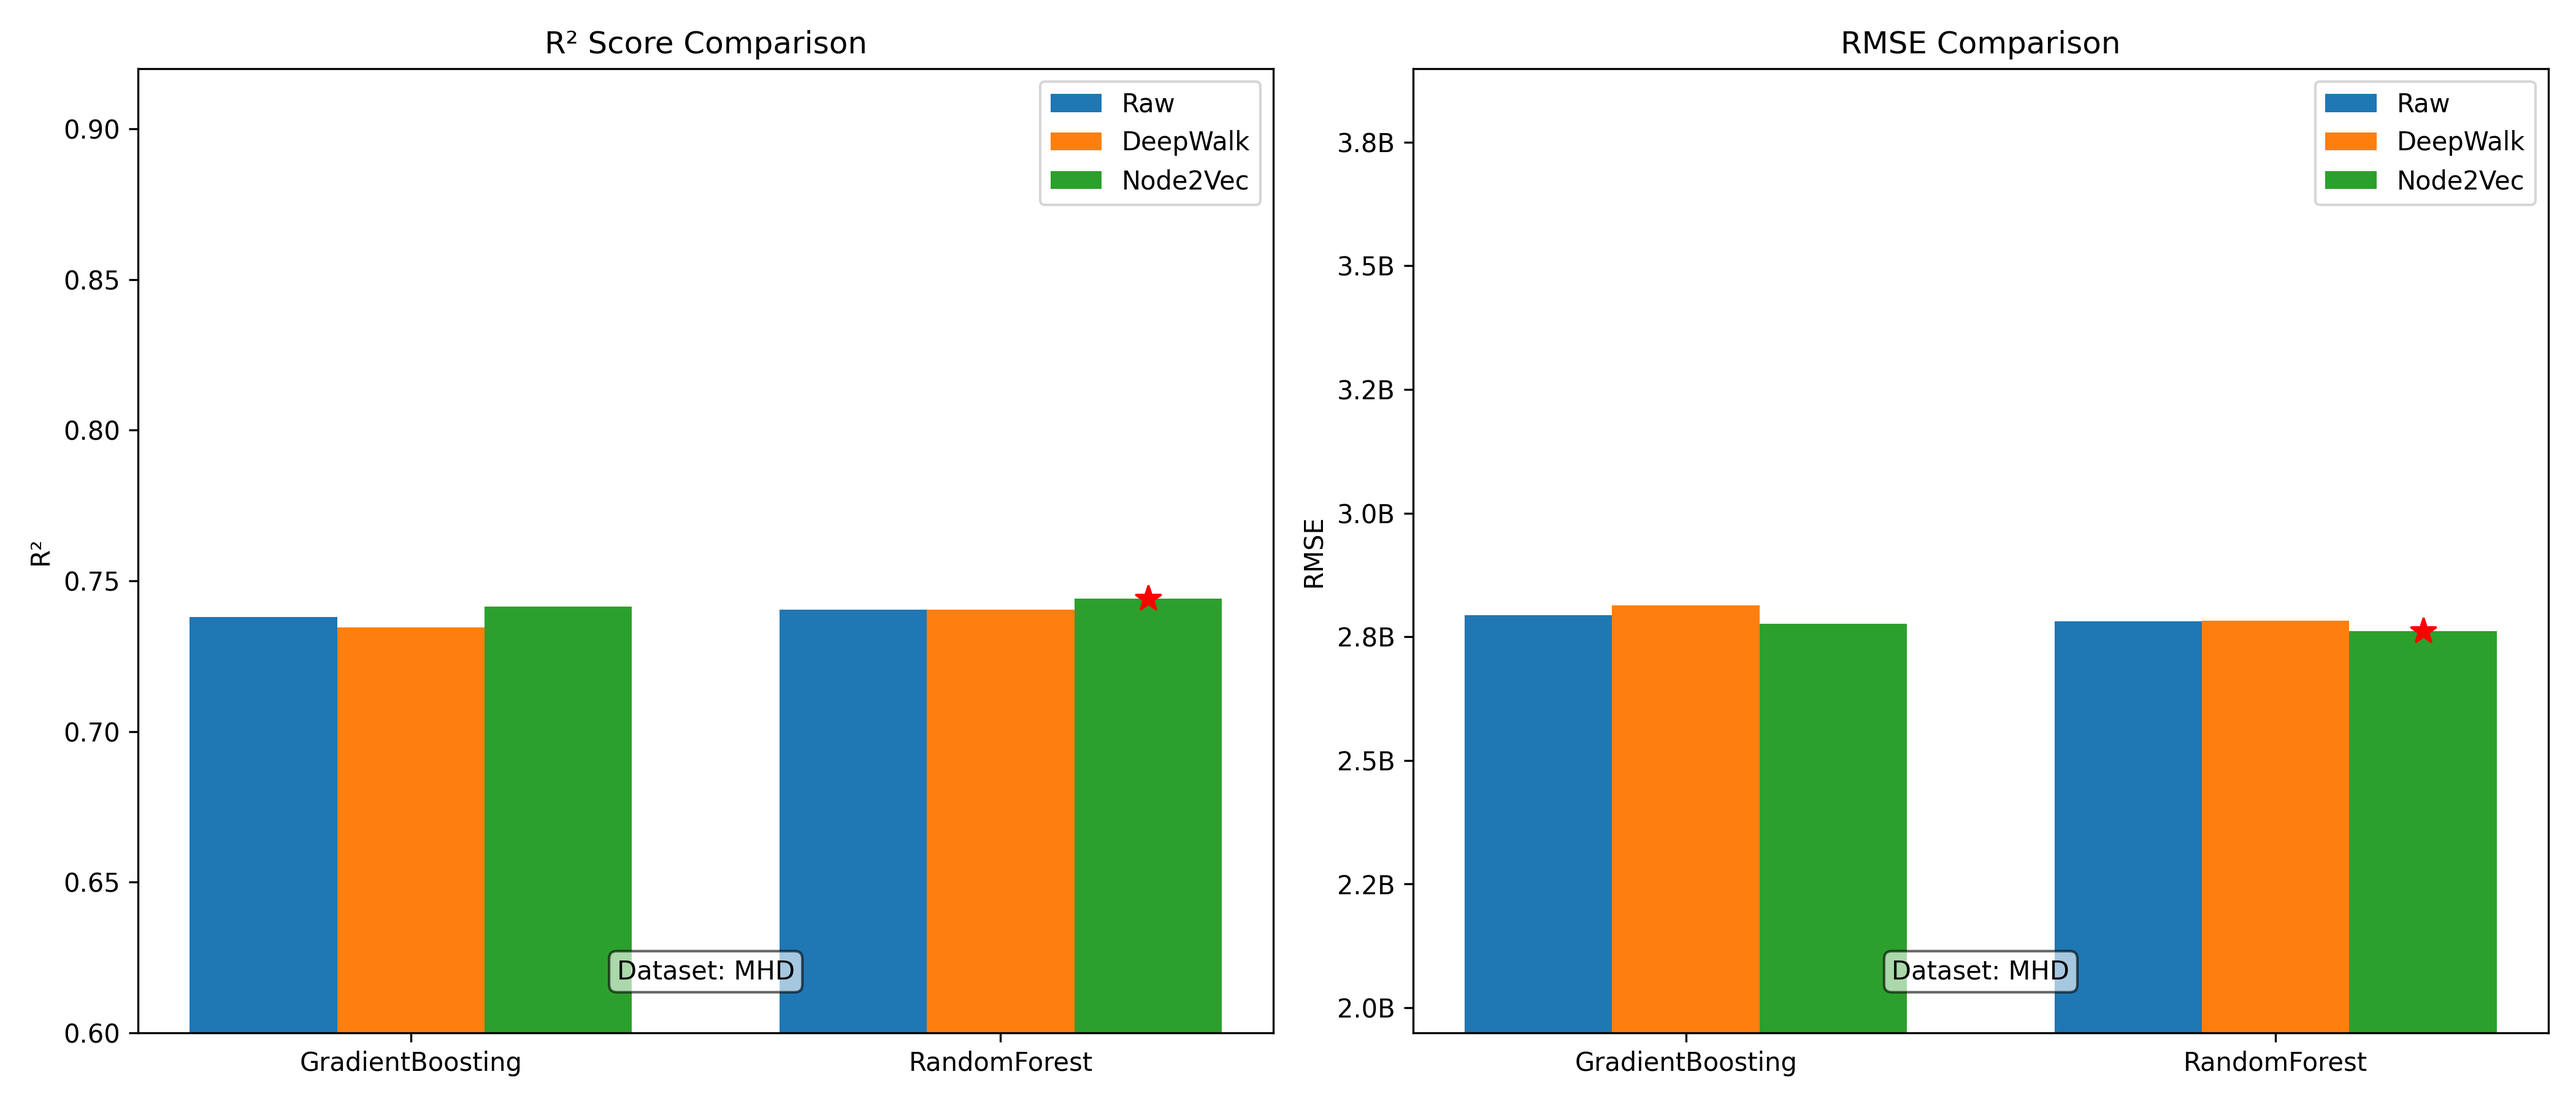
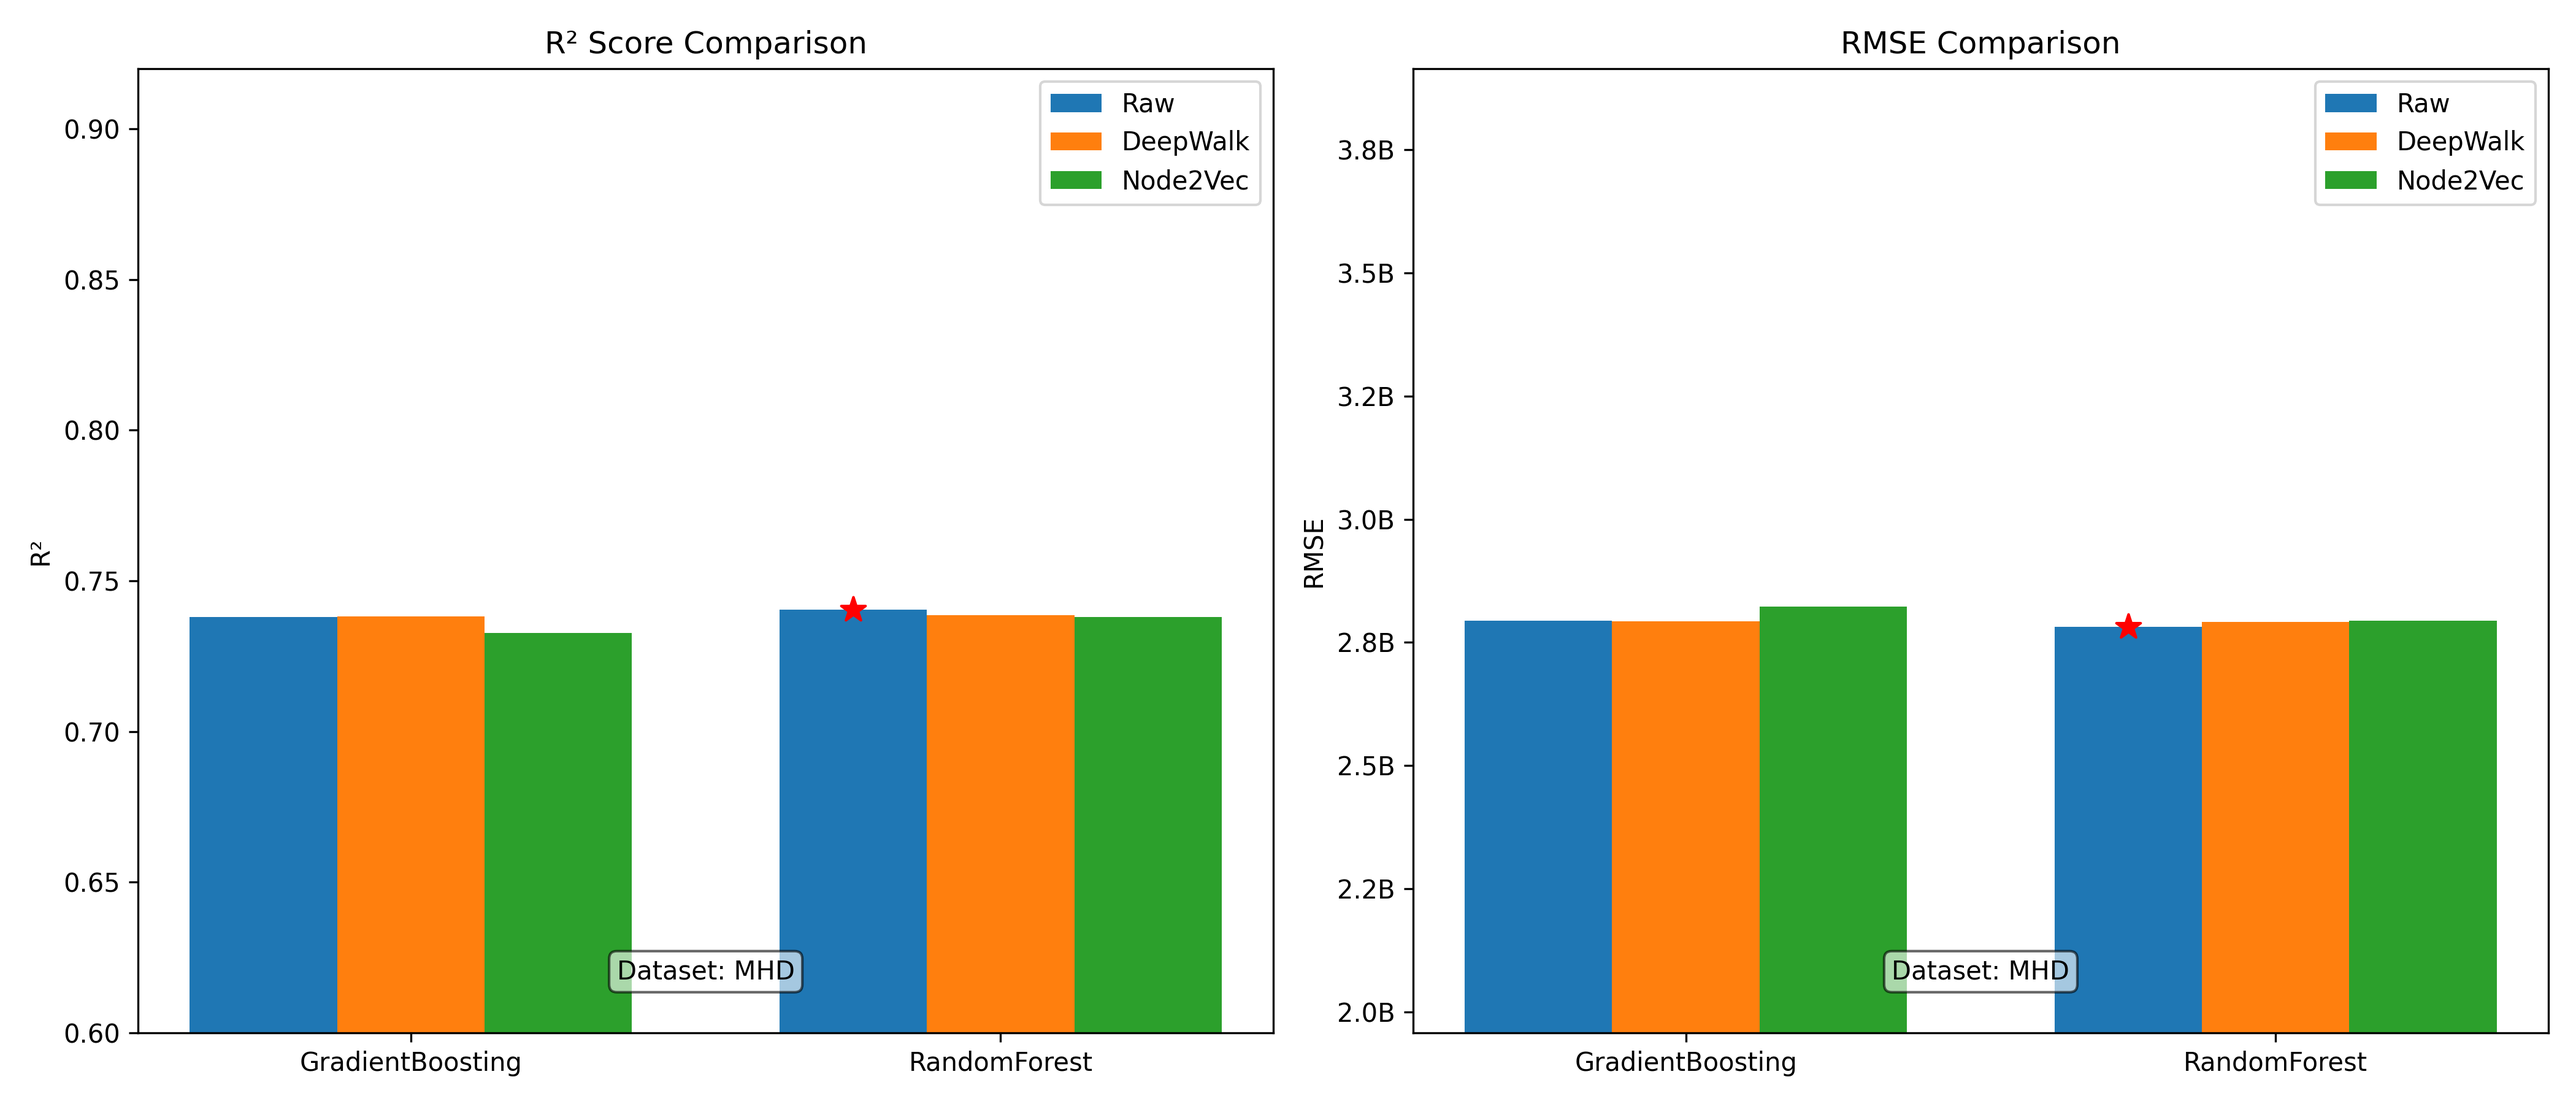
dataset MHD --num-walks 50 --walk-length 15 --p 2 --q 1
The results of MHD with dataset MHD --num-walks 50 --walk-length 15 --p 2 --q 1 and discarding the type in create graph, was not good

diff --git a/main_hpp.py b/main_hpp.py
@@ -60,7 +60,7 @@ def run_experiments(dataset_name, embedding_sizes=[2, 8, 16, 32, 64], num_walks=
         ("RandomForest", RandomForestRegressor(random_state=42)),
     ]:
         metrics = fit_and_evaluate(model, X_train, y_train, X_test, y_test, verbose=False)
-        results.append([f"{model_name} (DeepWalk-{best_dw_size})", *metrics])
+        results.append([f"{model_name} (DeepWalk-ed{best_dw_size}-nw{num_walks}-wl{walk_length})", *metrics])
 
 
     # -----------------------------
@@ -76,7 +76,7 @@ def run_experiments(dataset_name, embedding_sizes=[2, 8, 16, 32, 64], num_walks=
         ("RandomForest", RandomForestRegressor(random_state=42)),
     ]:     
         metrics = fit_and_evaluate(model, X_train, y_train, X_test, y_test, verbose=False)
-        results.append([f"{model_name} (Node2Vec-{best_n2v_size})", *metrics])
+        results.append([f"{model_name} (Node2Vec-ed{best_n2v_size}-nw{num_walks}-wl{walk_length}-p{p}-q{q})", *metrics])
 
     # -----------------------------
     # Node2Vec with grid search
@@ -91,7 +91,7 @@ def run_experiments(dataset_name, embedding_sizes=[2, 8, 16, 32, 64], num_walks=
         ("RandomForest", RandomForestRegressor(random_state=42)),
     ]:     
         metrics = fit_and_evaluate(model, X_train, y_train, X_test, y_test, verbose=False)
-        results.append([f"{model_name} (Node2Vec-{best_n2v_size})", *metrics])
+        results.append([f"{model_name} (Node2Vec-ed{best_n2v_size}-nw{num_walks}-wl{walk_length}-p{p}-q{q})", *metrics])
 
     # -----------------------------
     # Save results

diff --git a/utils.py b/utils.py
@@ -86,10 +86,10 @@ def create_graph_from_dataframe(df, numeric_features, distance_threshold=4000):
 
     # Define a function to compute edge weight  
     def calculate_weight(df, idx1, idx2):  
-        if 'type' in df.columns:
-            # no edge if the types are different in MHD dataset
-            if df.loc[idx1, 'type'] != df.loc[idx2, 'type']:
-                return 0
+        # if 'type' in df.columns:
+        #     # no edge if the types are different in MHD dataset
+        #     if df.loc[idx1, 'type'] != df.loc[idx2, 'type']:
+        #         return 0
         geo_distance = np.linalg.norm(coordinates[idx1] - coordinates[idx2])  
         # num_distance = np.linalg.norm(df.loc[idx1, numeric_features] - df.loc[idx2, numeric_features])  
         # binary_similarity = np.sum(df.loc[idx1, binary_features] == df.loc[idx2, binary_features])   
